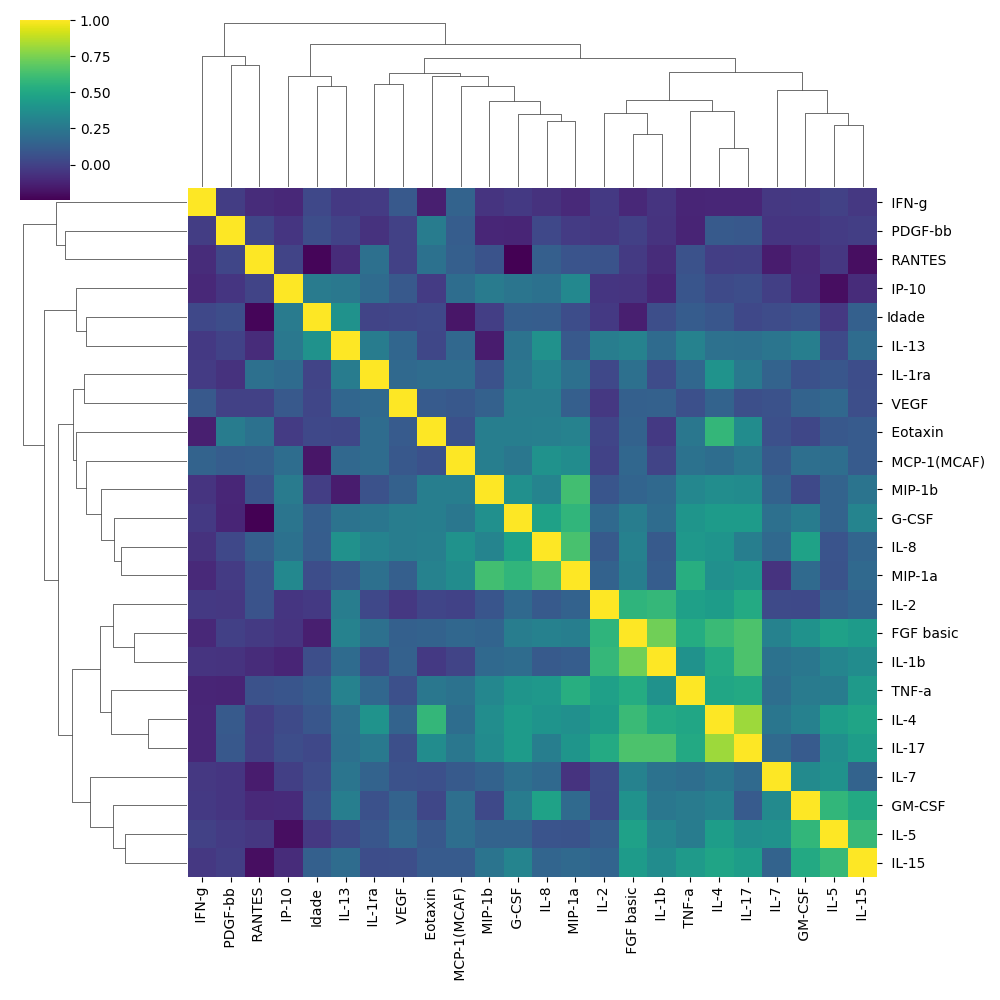
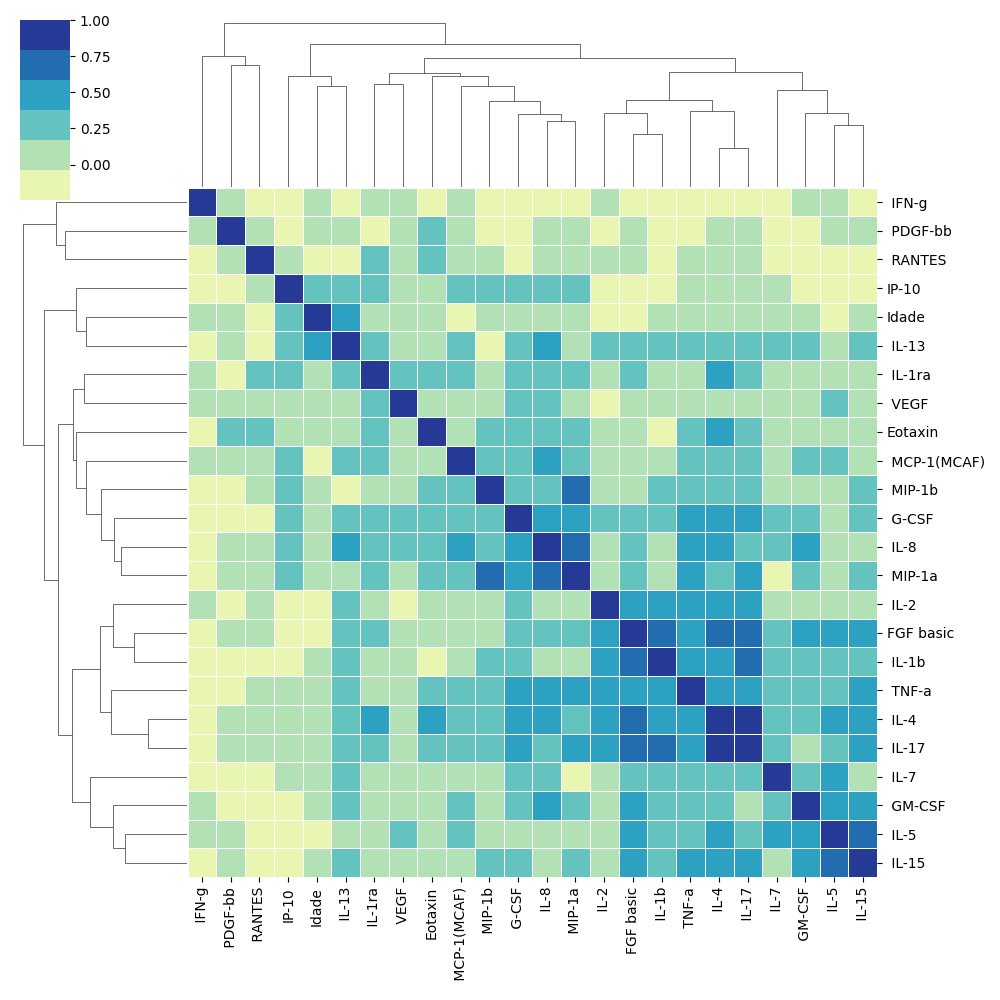
analise de correlacao ok

diff --git a/app/main.py b/app/main.py
@@ -1,21 +1,30 @@
 from fastapi import FastAPI, File, UploadFile
 from fastapi.responses import FileResponse
+from app.models.Palettes import Palette
 import matplotlib.pyplot as plt
 import seaborn as sns
 import pandas as pd
+import io
+import base64
+from enum import Enum
 import scipy
+import numpy as np
 
-
-app = FastAPI()
+app = FastAPI(title="ImadbAPI", version=0.1,
+              description="Imunnoaging Database API - Analysis endpoints and data access")
 
 
 @app.post("/heatmap")
-async def heatmap(file: UploadFile = File(...), width: int = 10, height: int = 10):
+async def heatmap(file: UploadFile = File(...), width: int = 10, height: int = 10, palette: Palette = Palette.VIRIDIS):
+    sns_palette = sns.color_palette(palette.value)
+
     df = pd.read_csv(file.file)
     corr_matrix = df.corr()
-    plt.figure(figsize=(width,height))
-    sns.heatmap(corr_matrix, annot=False, cmap="viridis", vmax=1, vmin=-1)
-    sns.clustermap(corr_matrix, cmap="viridis", annot=False)
+
+    plt.figure(figsize=(width, height))
+    sns.heatmap(corr_matrix, annot=False, cmap=palette, vmax=1, vmin=-1)
+    sns.clustermap(corr_matrix, cmap=sns_palette, annot=False, linewidth=.6)
+
     plt.savefig("heatmap.png")
     return FileResponse("heatmap.png", media_type="image/png")
 
@@ -23,4 +32,4 @@ async def heatmap(file: UploadFile = File(...), width: int = 10, height: int = 1
 if __name__ == "__main__":
     import uvicorn
 
-    uvicorn.run(app)
+    uvicorn.run("main:app", reload=True)

diff --git a/app/models/Palettes.py b/app/models/Palettes.py
@@ -1,0 +1,12 @@
+from enum import Enum
+import seaborn as sns
+
+
+class Palette(str, Enum):
+    BLUE_PURPLE = 'PRGn'
+    GREEN_BLUE = 'BrBG'
+    YELLOW_GREEN = 'YlGnBu'
+    RED_YELLOW = 'RdYlBu'
+    PURPLE_PINK = 'RdPu'
+    VIRIDIS = "viridis"
+    MAGMA = "magma"
